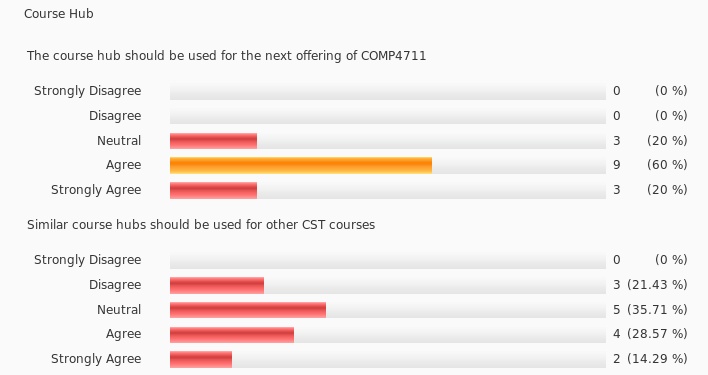
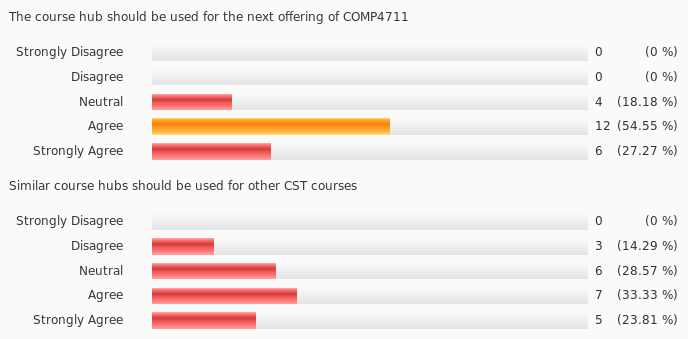
FIXDetectify issues Signed-off-by:Master Yoda <jim_parry@bcit.ca>

diff --git a/data/news.md b/data/news.md
@@ -1,29 +1,9 @@
-**Week 13** *(Mon Apr 10, 08:30)*  
-No online reading for this week.  
+**Week 13** *(Fri Apr 14, 12:00)*  
+Survey results updated, reflecting the last of the forward-looking questions.
 
-I have posted a [survey](https://learn.bcit.ca//d2l/lms/survey/user/attempt/survey_start_frame.d2l?si=266881&ou=360899)
-though, open until Thursday morning.
-It asks for any questions you would like addressed during the review
-lecture, as well as for your opinion about the course hub
-and "flipped learning".  
-Note: this is not for marks.
 
-I will do my best to answer or address any review questions
-submitted before midnight tonight (Monday), either in the
-survey results or in class.
-
-I will be reviewing assignment 2 with each team during lab this week, and
-you will have the opportunity to complete course evaluations.
-
-**Assignment 3** *(Mon Apr 10, 08:30)*  
-
-I do not plan to post a third assignment - I don't see that your learning or
-sanity would be positively affected by it.
-
-No one has asked to pursue an optional assignment 3.
-
-**Labs** *(Mon Apr 10, 08:30)*  
-- Assignment 2 marking is in progress.
-- Lab 6 marking is in progress.
-- Lab 7 marking is in the queue.
+**Labs** *(Fri Apr 14, 12:00)*  
+- Assignment 2 marking complete
+- Lab 6 marking complete
+- Lab 7 marking is in progress
 - Lab 8 marking is in the queue.
